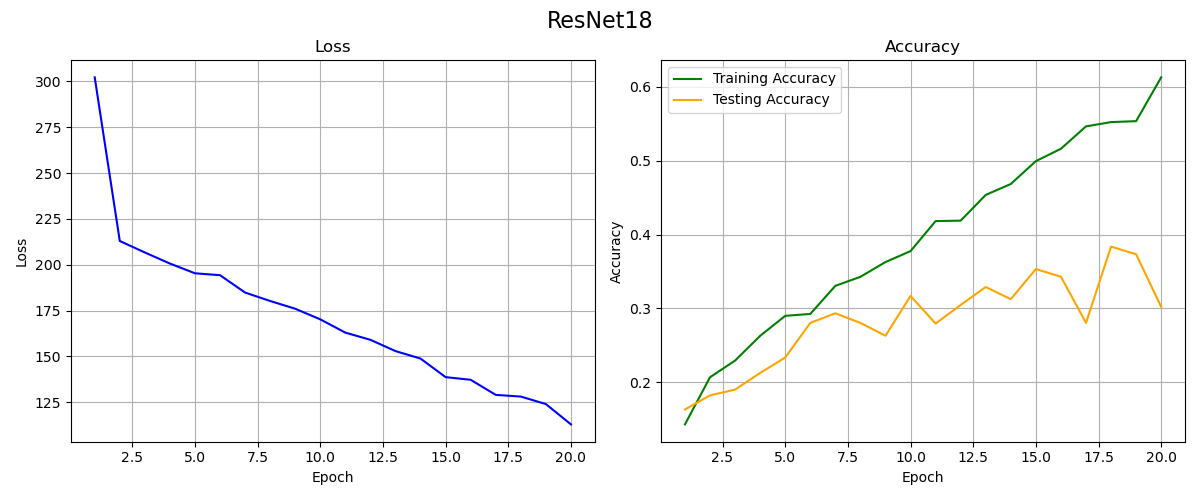
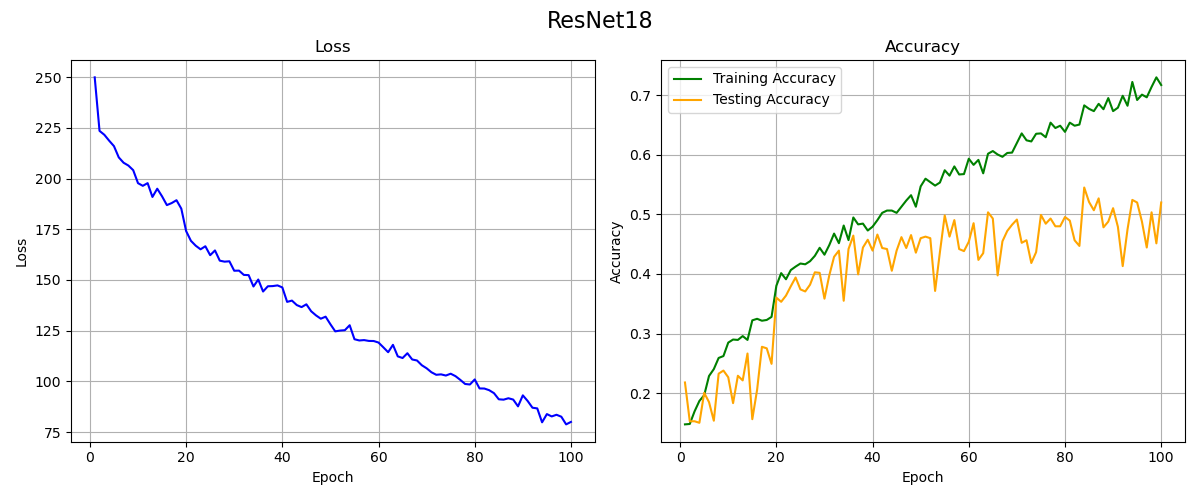
overfit

diff --git a/main.py b/main.py
@@ -7,14 +7,14 @@ from torchvision.transforms import transforms
 
 from stanford.models.CNN import CNN
 from stanford.models.VGG import VGG
-from stanford.models.ResNet import ResNet18
+from stanford.models.ResNet import ResNet18, ResNet50
 from stanford.dataset import SimpleImageFolderDataset
 from draw import process_show
 
 root_dir = './Images/train'
 root_dir2 = './Images/test'
 model_name = 'VGG'
-epoch_num = 50
+epoch_num = 100
 # 定义变换操作
 transform = transforms.Compose([
     transforms.Resize((256, 256)),
@@ -41,11 +41,11 @@ if __name__ == '__main__':
     print("load the model...")
     # model = CNN().to(device)
     # model = ResNet18().to(device)
-    model=VGG().to(device)
+    model = VGG().to(device)
     # criterion = TripletLoss()
 
     criterion = nn.CrossEntropyLoss()
-    optimizer = optim.Adam(model.parameters(), lr=0.001, betas=(0.9,0.999), weight_decay=5e-4)
+    optimizer = optim.Adam(model.parameters(), lr=0.01, betas=(0.9, 0.999), weight_decay=5e-4)
     # optimizer = optim.SGD(model.parameters(), lr=0.001, momentum=0.9, nesterov=True, weight_decay=5e-4)
     loss_list = []
     train_acclist = []
@@ -55,7 +55,7 @@ if __name__ == '__main__':
         train_loss = 0
         train_acc = 0
         model.train()
-        if epoch%10 == 0:
+        if epoch == 30 or epoch == 50 or epoch==10 or epoch==70:
             optimizer.param_groups[0]['lr'] *= 0.1
 
         for images, label in data_loader1:
@@ -63,7 +63,6 @@ if __name__ == '__main__':
             label = label.to(device)
             out = model(img)
             loss = criterion(out, label)
-            
 
             optimizer.zero_grad()
             loss.backward()
